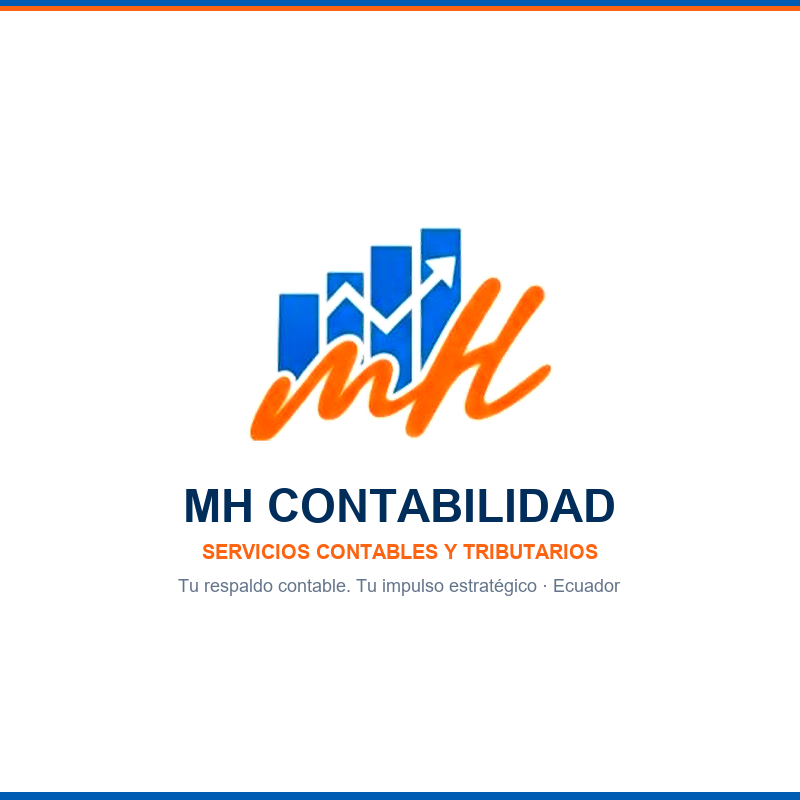
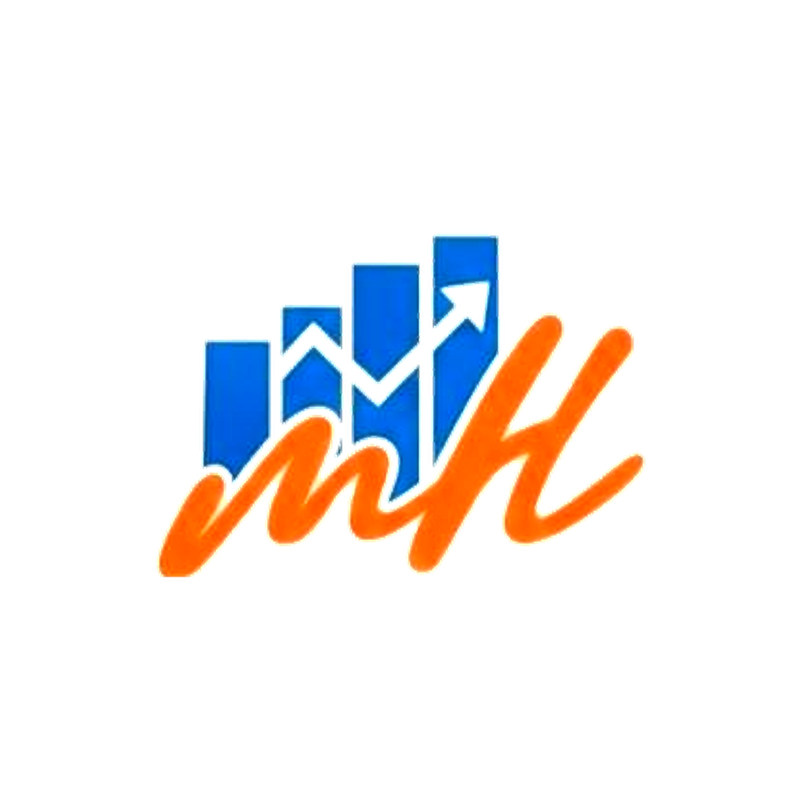
fix(og): meta etiquetas OpenGraph absolutas y tarjetas 1:1 optimizadas para previsualización en WhatsApp

Changed region(s): [[0.1875, 0.2812, 0.8125, 0.75], [0.0, 0.9688, 1.0, 1.0], [0.0, 0.0, 1.0, 0.0312]]

diff --git a/index.html b/index.html
@@ -3,10 +3,10 @@
   <head>
     <meta charset="UTF-8" />
     <meta name="viewport" content="width=device-width, initial-scale=1.0" />
-        <title>MH Contabilidad | Tu respaldo contable. Tu impulso estratégico.</title>
+        <title>MH Contabilidad | Servicios Contables y Tributarios</title>
     <meta
       name="description"
-      content="Somos MH Contabilidad, firma de servicios contables y fiscales diseñada para ser el respaldo de autónomos, pymes y medianas empresas en Ecuador."
+      content="Somos MH Contabilidad, firma experta en servicios contables, tributarios y fiscales para autónomos, pymes y medianas empresas en Ecuador."
     />
 
     <!-- OpenGraph para WhatsApp, Redes Sociales y Buscadores -->
@@ -14,26 +14,36 @@
     <meta property="og:title" content="MH Contabilidad | Servicios Contables y Tributarios" />
     <meta
       property="og:description"
-      content="Somos MH Contabilidad, firma de servicios contables y fiscales diseñada para ser el respaldo de autónomos, pymes y medianas empresas en Ecuador. Combinamos el máximo rigor técnico con un trato cercano y humano."
+      content="Somos MH Contabilidad, firma experta en servicios contables, tributarios y fiscales para autónomos, pymes y empresas en Ecuador. Claridad contable y blindaje ante el SRI."
     />
+    <meta property="og:url" content="https://mhcontabilidadec.web.app/" />
     <meta property="og:type" content="website" />
     <meta property="og:locale" content="es_EC" />
-    <meta property="og:image" content="/og-image.png" />
-    <meta property="og:image:secure_url" content="/og-image.png" />
+
+    <!-- WhatsApp Card: 1:1 Cuadrado (800x800) Absoluto -->
+    <meta property="og:image" content="https://mhcontabilidadec.web.app/og-image-square.png" />
+    <meta property="og:image:secure_url" content="https://mhcontabilidadec.web.app/og-image-square.png" />
+    <meta property="og:image:type" content="image/png" />
+    <meta property="og:image:width" content="800" />
+    <meta property="og:image:height" content="800" />
+    <meta property="og:image:alt" content="MH Contabilidad - Logotipo Oficial" />
+
+    <!-- Fallback 16:9 (1200x630) para Redes Sociales -->
+    <meta property="og:image" content="https://mhcontabilidadec.web.app/og-image.png" />
+    <meta property="og:image:secure_url" content="https://mhcontabilidadec.web.app/og-image.png" />
     <meta property="og:image:type" content="image/png" />
     <meta property="og:image:width" content="1200" />
     <meta property="og:image:height" content="630" />
-    <meta property="og:image:alt" content="MH Contabilidad - Logotipo Oficial" />
 
-    <!-- Twitter / X Card -->
-    <meta name="twitter:card" content="summary_large_image" />
+    <!-- Twitter / WhatsApp Card Metadata -->
+    <meta name="twitter:card" content="summary" />
     <meta name="twitter:title" content="MH Contabilidad | Servicios Contables y Tributarios" />
     <meta
       name="twitter:description"
-      content="Somos MH Contabilidad, firma de servicios contables y fiscales diseñada para ser el respaldo de autónomos, pymes y medianas empresas en Ecuador."
+      content="Somos MH Contabilidad, firma experta en servicios contables, tributarios y fiscales para autónomos, pymes y empresas en Ecuador."
     />
-    <meta name="twitter:image" content="/og-image.png" />
-    <link rel="image_src" href="/og-image.png" />
+    <meta name="twitter:image" content="https://mhcontabilidadec.web.app/og-image-square.png" />
+    <link rel="image_src" href="https://mhcontabilidadec.web.app/og-image-square.png" />
     <link rel="preconnect" href="https://fonts.googleapis.com" />
     <link rel="preconnect" href="https://fonts.gstatic.com" crossorigin />
     <link
